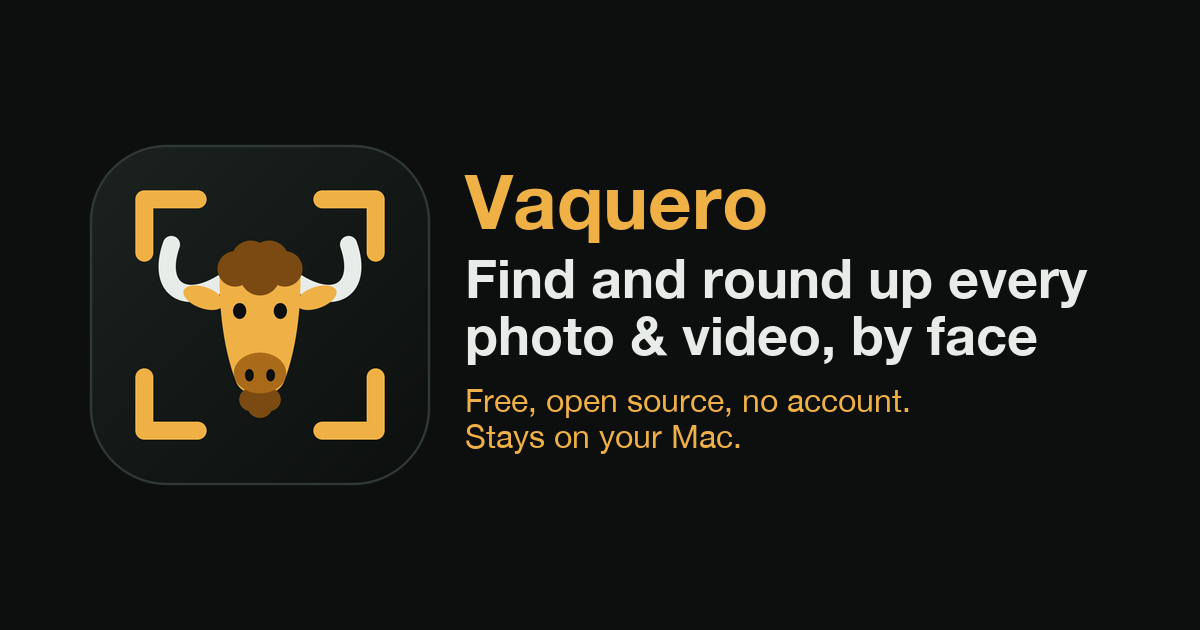
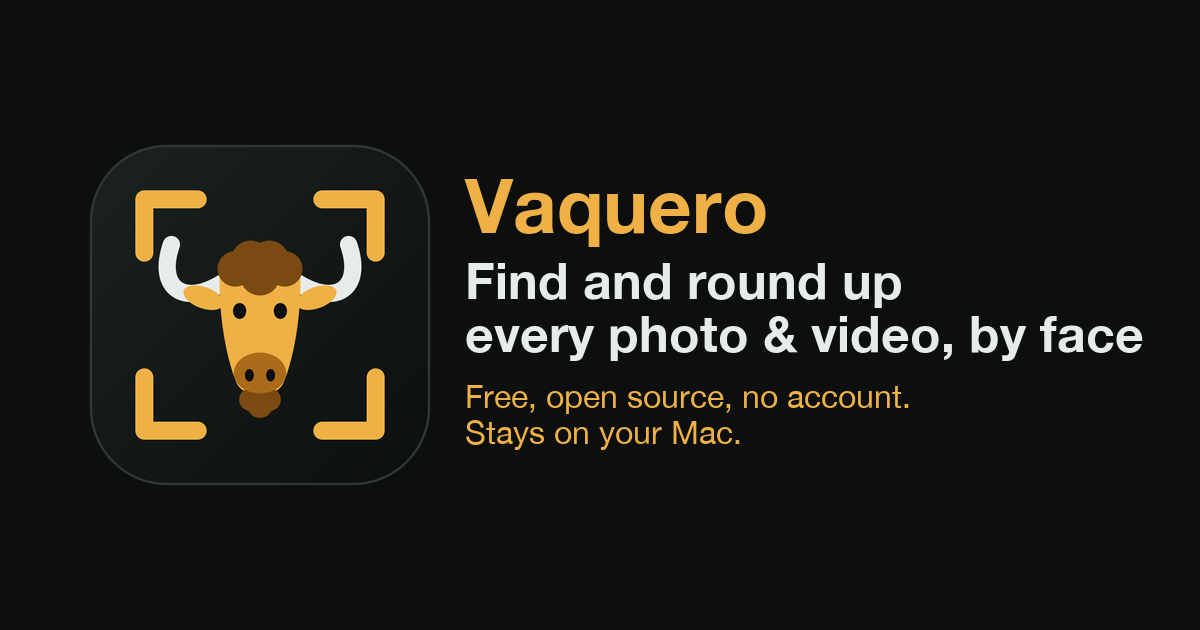
chore(site): keep "every photo & video" on one line in the headline and link preview

Changed region(s): [[0.37, 0.2714, 0.9558, 0.573], [0.37, 0.6032, 0.7708, 0.7238]]

diff --git a/scripts/make_web_icons.py b/scripts/make_web_icons.py
@@ -19,7 +19,7 @@ BG = (12, 15, 14)  # the app's background, #0c0f0e
 FG = (231, 236, 232)  # the app's text, #e7ece8
 AMBER = (239, 177, 70)
 FONT = "/System/Library/Fonts/HelveticaNeue.ttc"
-HEADLINE = ("Find and round up every", "photo & video, by face")
+HEADLINE = ("Find and round up", "every photo & video, by face")  # "every photo & video" stays on one line
 TAGLINE = ("Free, open source, no account.", "Stays on your Mac.")
 
 
@@ -46,7 +46,7 @@ def og_image(icon: Image.Image) -> Image.Image:
     img.paste(small, (50, (h - side) // 2), small)
     draw = ImageDraw.Draw(img)
     name = ImageFont.truetype(FONT, 76, index=1)
-    bold = ImageFont.truetype(FONT, 54, index=1)
+    bold = ImageFont.truetype(FONT, 50, index=1)  # the longer headline line fits with a margin to the right edge
     regular = ImageFont.truetype(FONT, 32, index=0)
     # text, font, color, space below; the block is centered on the icon
     lines = [("Vaquero", name, AMBER, 16), (HEADLINE[0], bold, FG, 8), (HEADLINE[1], bold, FG, 24)]
